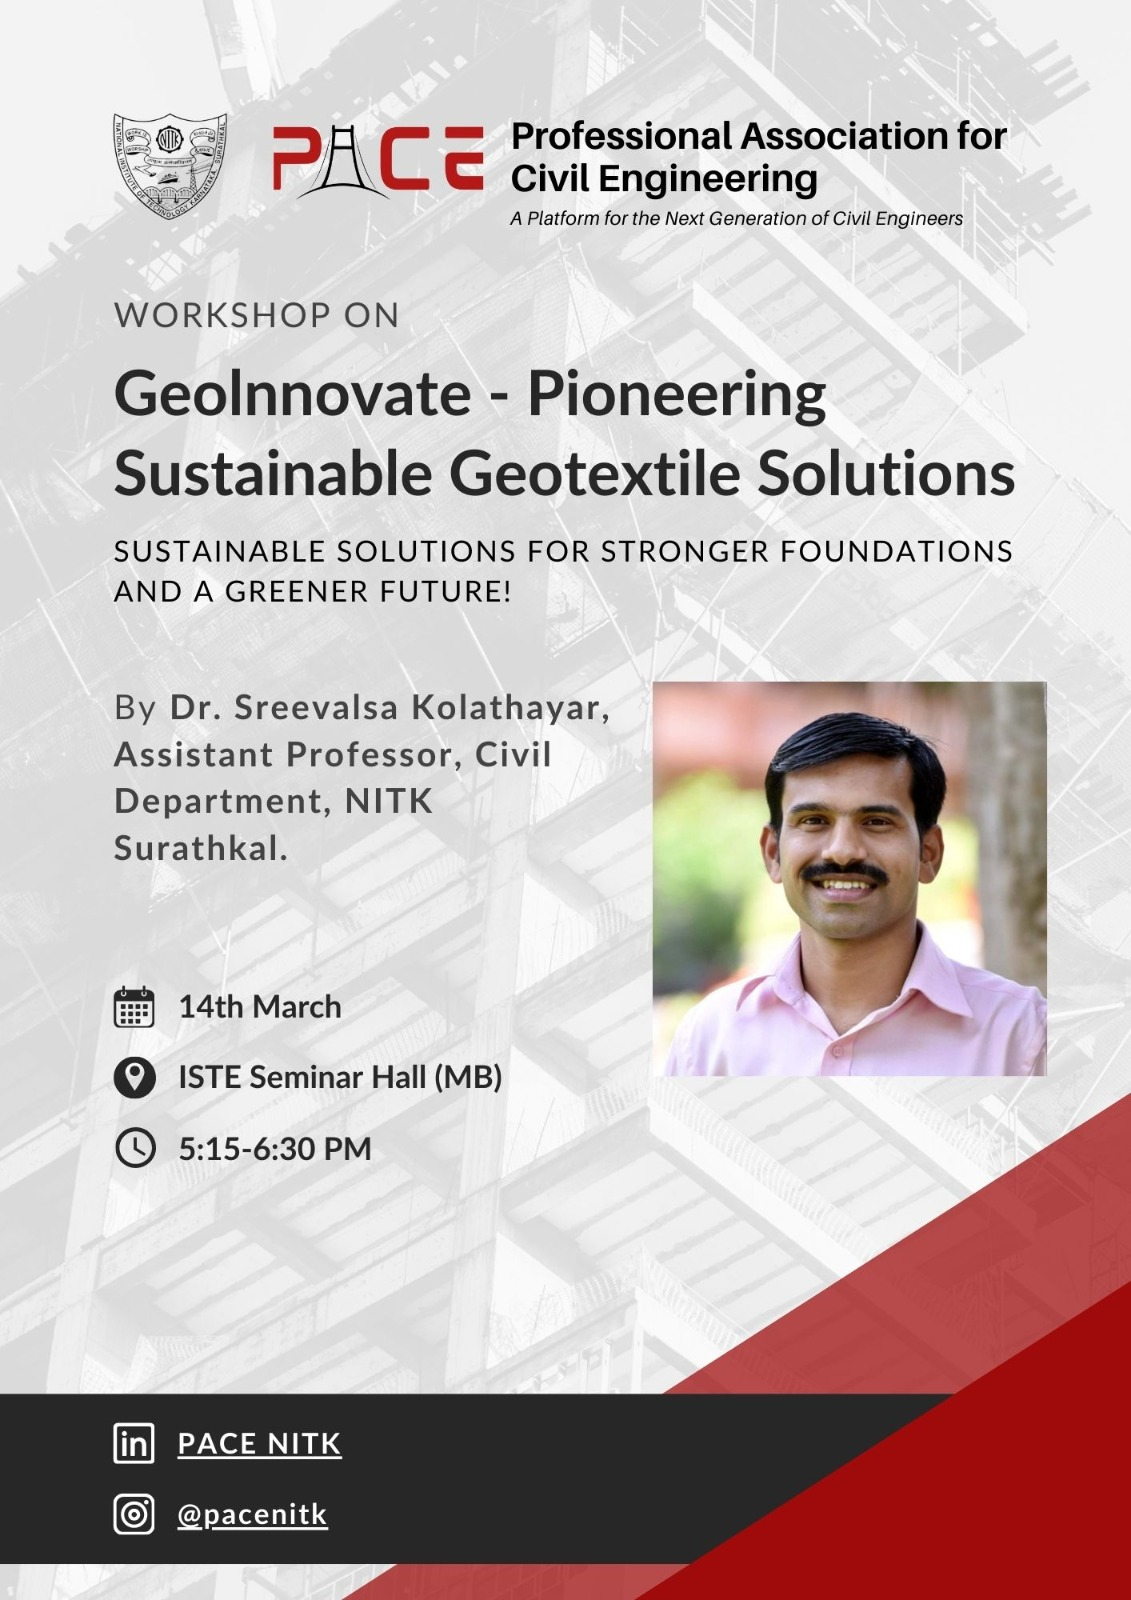
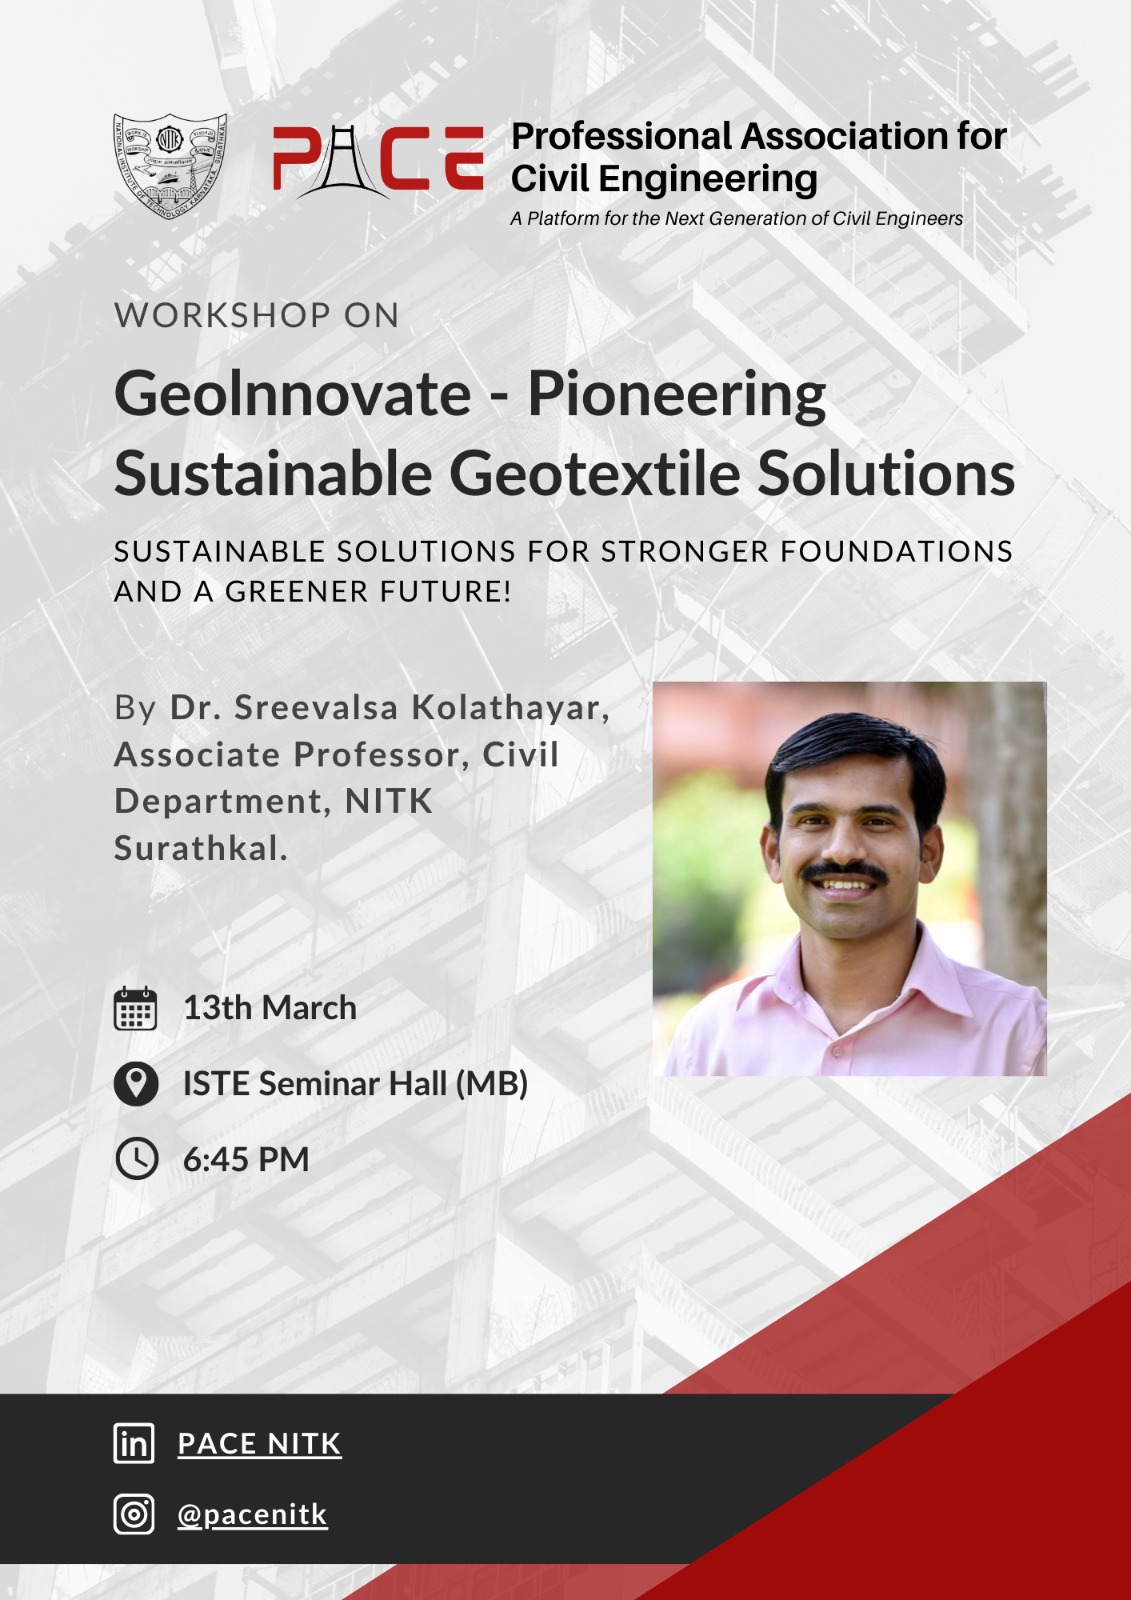
Add: Photos to imageHolders of Team members and GeoInnovate Annoucement NewImage

Changed region(s): [[0.0928, 0.625, 0.4642, 0.75], [0.1547, 0.4375, 0.4951, 0.5]]

diff --git a/src/components/Team/Team.jsx b/src/components/Team/Team.jsx
@@ -128,54 +128,67 @@ const TeamPage = () => {
 
           <div className="max-w-7xl mx-auto px-4 py-16">
             <SectionTitle title="Leadership" />
-            <div className="grid grid-cols-1 md:grid-cols-2 gap-24 justify-items-center max-w-4xl mx-auto mb-32">
-              {leadership.map((member, index) => (
-                <ProfileCard key={index} {...member} />
-              ))}
+            <div className="grid grid-cols-1 md:grid-cols-2 gap-24 justify-items-center mx-auto mb-32">
+              <div className="col-span-full flex justify-center gap-24 flex-wrap">
+                {leadership.map((member, index) => (
+                  <ProfileCard key={index} {...member} />
+                ))}
+              </div>
             </div>
 
             <div className="mt-32">
               <SectionTitle title="Admin Core" />
               <div className="grid grid-cols-1 md:grid-cols-3 gap-24 justify-items-center mb-32">
-                {adminCore.map((member, index) => (
-                  <ProfileCard key={index} {...member} />
-                ))}
+                <div className="col-span-full flex justify-center gap-24 flex-wrap">
+                  {adminCore.map((member, index) => (
+                    <ProfileCard key={index} {...member} />
+                  ))}
+                </div>
               </div>
             </div>
 
             <div className="mt-32">
               <SectionTitle title="Core Team" />
               <div className="grid grid-cols-1 md:grid-cols-2 lg:grid-cols-3 gap-24 justify-items-center mb-32">
-                {coreTeam.map((member, index) => (
-                  <ProfileCard key={index} {...member} />
-                ))}
+                <div className="col-span-full flex justify-center gap-24 flex-wrap">
+                  {coreTeam.map((member, index) => (
+                    <ProfileCard key={index} {...member} />
+                  ))}
+                </div>
+              </div>
+            </div>
+
+            {/* SIG Heads section moved to appear right after Core Team */}
+            <div className="mt-32">
+              <SectionTitle title="SIG Heads" />
+              <div className="grid grid-cols-1 md:grid-cols-2 lg:grid-cols-4 gap-24 justify-items-center mb-32">
+                <div className="col-span-full flex justify-center gap-24 flex-wrap">
+                  {sigHeads.map((member, index) => (
+                    <ProfileCard key={index} {...member} />
+                  ))}
+                </div>
               </div>
             </div>
 
             <div className="mt-32">
               <SectionTitle title="Events Coordinators" />
               <div className="grid grid-cols-1 md:grid-cols-2 gap-24 justify-items-center mb-32">
-                {eventCoordinators.map((member, index) => (
-                  <ProfileCard key={index} {...member} />
-                ))}
+                <div className="col-span-full flex justify-center gap-24 flex-wrap">
+                  {eventCoordinators.map((member, index) => (
+                    <ProfileCard key={index} {...member} />
+                  ))}
+                </div>
               </div>
             </div>
 
             <div className="mt-32">
               <SectionTitle title="Media Heads" />
               <div className="grid grid-cols-1 md:grid-cols-3 gap-24 justify-items-center mb-32">
-                {mediaHeads.map((member, index) => (
-                  <ProfileCard key={index} {...member} />
-                ))}
-              </div>
-            </div>
-
-            <div className="mt-32">
-              <SectionTitle title="SIG Heads" />
-              <div className="grid grid-cols-1 md:grid-cols-2 lg:grid-cols-4 gap-24 justify-items-center mb-32">
-                {sigHeads.map((member, index) => (
-                  <ProfileCard key={index} {...member} />
-                ))}
+                <div className="col-span-full flex justify-center gap-24 flex-wrap">
+                  {mediaHeads.map((member, index) => (
+                    <ProfileCard key={index} {...member} />
+                  ))}
+                </div>
               </div>
             </div>
           </div>

diff --git a/src/components/Team/teamData.js b/src/components/Team/teamData.js
@@ -7,8 +7,10 @@ import subhodeep from '../../assets/Team/AdminCore/subhodeep.jpeg';
 import riya from '../../assets/Team/Core/riya.jpeg';
 import chandana from '../../assets/Team/Sigheads/chandana.jpeg';
 import pavithra from '../../assets/Team/Sigheads/pavithra.jpeg';
-
-
+import jeevotham from '../../assets/Team/AdminCore/jeevotham.jpeg';
+import nihal from '../../assets/Team/AdminCore/nihal.jpeg';
+import alokh from '../../assets/Team/AdminCore/alok.jpeg';
+import subhodh from '../../assets/Team/AdminCore/subhodh.jpeg';
 
 const teamData = {
   leadership: [
@@ -54,20 +56,20 @@ const teamData = {
       imageSrc:subhodeep
     },
     {
-      name: "Subodh",
+      name: "Subodh Kumar",
       role: "Joint Convenor",
       socialLinks: {
-        // No additional information available
+        linkedin: "https://www.linkedin.com/in/subodh0907/"
       },
-      imageSrc: ""
+      imageSrc: subhodh
     },
     {
       name: "Alok Kumar Sahoo",
       role: "Chief Coordinator",
       socialLinks: {
-        // No additional information available
+        linkedin: "https://www.linkedin.com/in/alok-kumar-sahoo-80472a24a/"
       },
-      imageSrc: ""
+      imageSrc: alokh
     },
     {
       name: "Anushka Mishra",
@@ -79,13 +81,22 @@ const teamData = {
       imageSrc: ""
     },
     {
+    
+      name: "Jeevottham Shenoy",
+      role: "Advisor",
+      socialLinks: {
+        linkedin: "https://www.linkedin.com/in/jeevottham-shenoy/?originalSubdomain=in",
+        // email: "anushkamishra.221mn009@nitk.edu.in"
+      },
+      imageSrc:jeevotham
+    },
+    {
       name: "Nihal Jaydeep",
       role: "Treasurer",
       socialLinks: {
-        linkedin: "",
-        // No email available in the provided data
+        linkedin: " https://www.linkedin.com/in/nihal-jayadeep/"
       },
-      imageSrc: ""
+      imageSrc: nihal
     },
     {
       name: "Pratheek BS",
@@ -113,7 +124,8 @@ const teamData = {
         email: "ayushseenam.221cv112@nitk.edu.in"
       },
       imageSrc: ayush
-    }
+    },
+
   ],
   
   coreTeam: [
@@ -135,45 +147,6 @@ const teamData = {
       imageSrc: ""
     }
   ],
-
-  eventCoordinators: [
-    {
-      name: "Aditya Maru",
-      role: "Events Head",
-      socialLinks: {
-        // No additional information available
-      },
-      imageSrc: ""
-    },
-    {
-      name: "Adarsh Kumar",
-      role: "Events Head",
-      socialLinks: {
-        // No additional information available
-      },
-      imageSrc: ""
-    },
-  ],
-
-  mediaHeads: [
-    {
-      name: "Sarthak",
-      // role: "Media Head",
-      socialLinks: {
-        // No additional information available
-      },
-      imageSrc: ""
-    },
-    {
-      name: "Nutalu Ringa",
-      // role: "Media Head",
-      socialLinks: {
-        // No additional information available
-      },
-      imageSrc: ""
-    },
-  ],
-
   sigHeads: [
     {
       name: "Sree Chandana Malyala",
@@ -209,7 +182,45 @@ const teamData = {
       },
       imageSrc: ""
     }
-  ]
+  ],
+
+  eventCoordinators: [
+    {
+      name: "Aditya Maru",
+      role: "Events Head",
+      socialLinks: {
+        email: "adityamaru.221cv204@nitk.edu.in"
+      },
+      imageSrc: ""
+    },
+    {
+      name: "Adarsh Kumar",
+      role: "Events Head",
+      socialLinks: {
+        // No additional information available
+      },
+      imageSrc: ""
+    },
+  ],
+
+  mediaHeads: [
+    {
+      name: "Sarthak",
+      // role: "Media Head",
+      socialLinks: {
+        // No additional information available
+      },
+      imageSrc: ""
+    },
+    {
+      name: "Nutalu Ringa",
+      // role: "Media Head",
+      socialLinks: {
+        // No additional information available
+      },
+      imageSrc: ""
+    },
+  ],
 };
 
 export default teamData;
